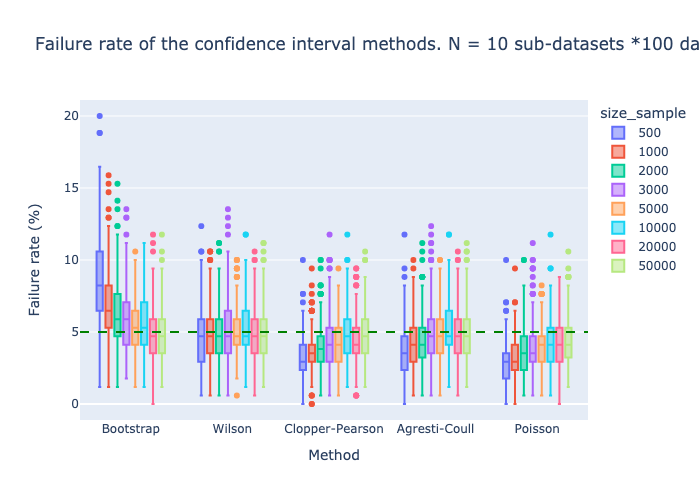
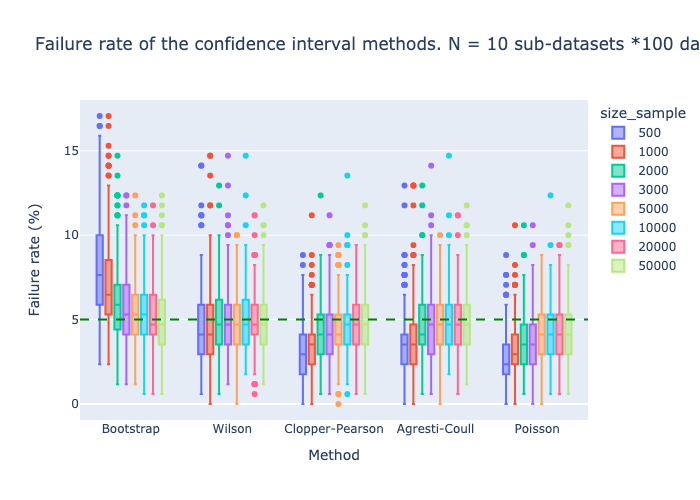
N selection

diff --git a/src/src.py b/src/src.py
@@ -6,7 +6,7 @@ import plotly.express as px
 import scipy
 import plotly
 
-N_TRIAL_PER_DATASET = 100
+N_TRIAL_PER_DATASET = 10000
 SIZE_SAMPLE = [500, 1000, 2000, 3000, 5000, 10000, 20000, 50000]
 DATAPATH = os.path.abspath(os.path.join(os.path.dirname(__file__), '..', 'data'))
 FIGPATH = os.path.abspath(os.path.join(os.path.dirname(__file__), '..', 'figs'))
@@ -231,6 +231,13 @@ def plot_mr_distribution():
         mr += (data.sum(axis=0)/data.shape[0]).tolist()
         
     fig = px.histogram(pd.DataFrame({'mr': mr}), x='mr', nbins=100, title='Distribution of the mutation rate in the dataset')
+    
+    fig.update_layout(
+        title = 'Distribution of the mutation rate in the dataset',
+        xaxis_title = 'Mutation rate',
+        yaxis_title = 'Count',
+    )
+    
     fig.show()
     
     # a = fig.to_html()

diff --git a/README.md b/README.md
@@ -119,7 +119,7 @@ We use 4 real datasets to compare the methods. The mutation rate distribution ac
 
 The following figure shows the results of a simulation comparing the performance of different methods for binomial distributions confidence intervals. 
 1. We loaded ``4 real datasets`` of over ``200,000 reads``, each read being ``170 nucleotides`` long. The mutation rate distribution across the positions is shown in figure A.
-2. We subsampled ``N = [500, 1000, 2000, 3000, 5000, 10000] reads``,  ``100,000 times`` from each dataset, and calculated the confidence intervals for each position using the different methods.
+2. We subsampled ``N = [500, 1000, 2000, 3000, 5000, 10000] reads``,  ``10,000 times`` from each dataset, and calculated the confidence intervals for each position using the different methods.
 3. For each read of ``170 nucleotides``, we calculated how many times the true mutation rate was within the confidence interval for each method. The distribution of this "success rate" is shown in figure B. 
 
 A good method should have a small bias (e.g, be centered around 5%) and a small variance. 
@@ -140,4 +140,10 @@ $$ Var(f([p_1, p_2, ..., p_N])) ≤ Np(1-p) $$
 where $p = \frac{1}{N} \sum_{i=1}^{N} p_i $.
 
 We can then use the binomial distribution $X \sim Bin(N, p)$ to approximate $f([p_1, p_2, ..., p_N])$.
+
+### Select N given a maximum confidence interval width and a maximum mutation rate
+
+Read the following plot to understand how to select N given a maximum confidence interval width and a maximum mutation rate.
+
+![Select N](figs/how_to_pick_N.png)
 
